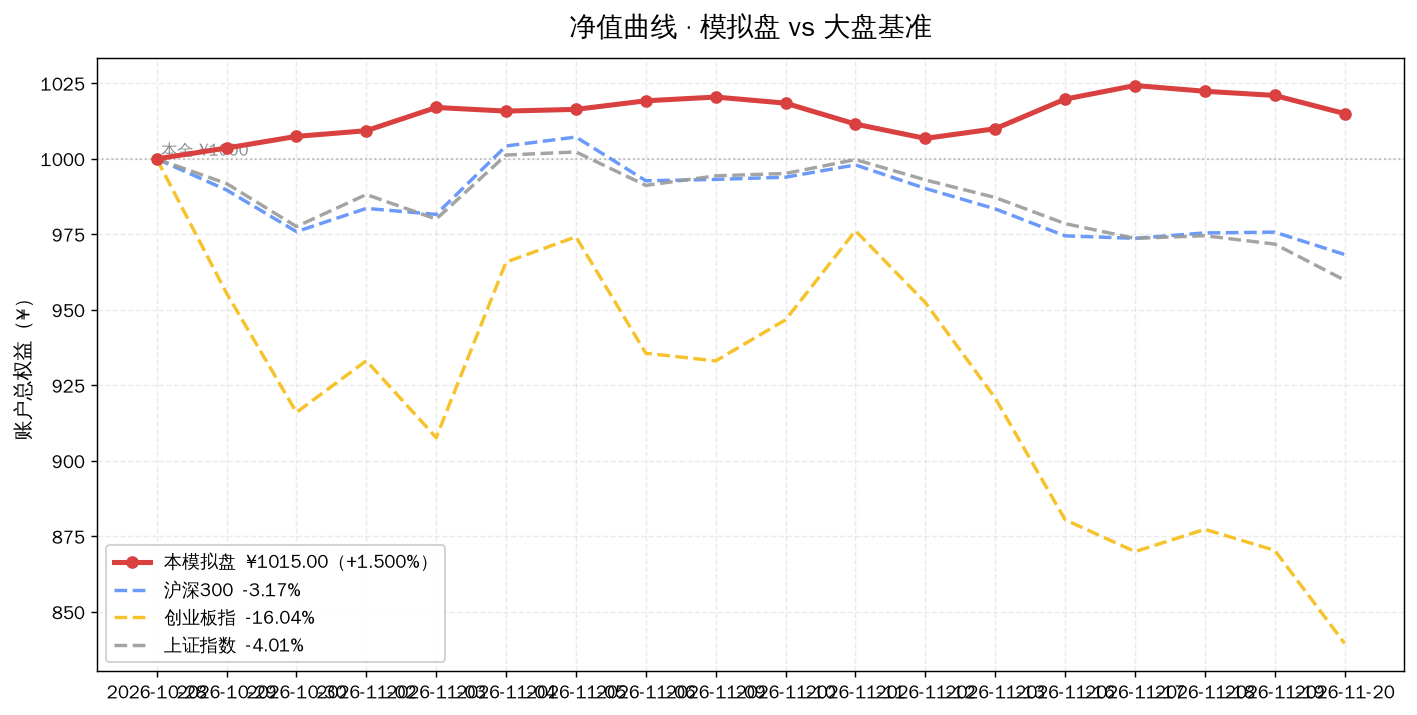
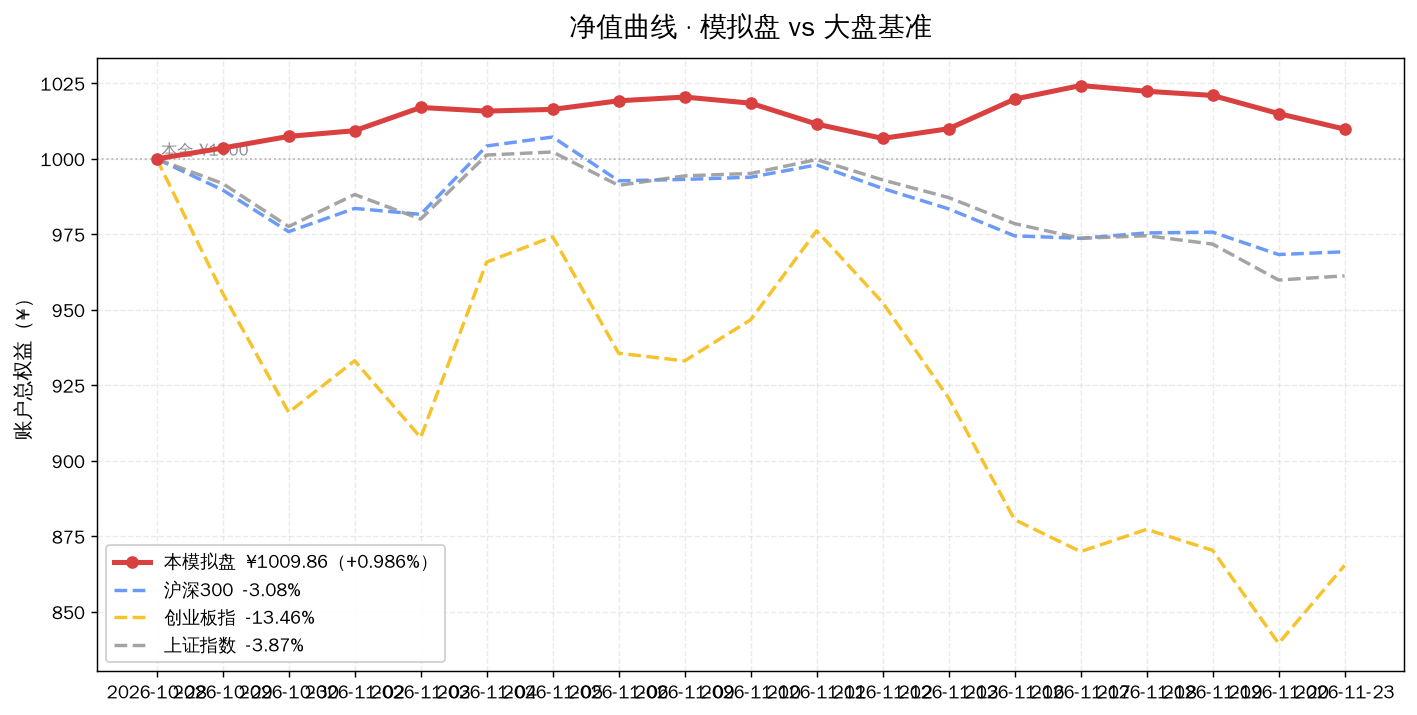
sim: dashboard update 2026-11-23 (equity ¥1009.86, +0.986%)

diff --git a/sim/DASHBOARD.md b/sim/DASHBOARD.md
@@ -1,8 +1,8 @@
 # 📊 模拟盘动态看板
 
-> **自动生成** · 最后更新 **2026-11-20 16:30** · 数据源：腾讯财经公开接口（实时行情）
+> **自动生成** · 最后更新 **2026-11-23 16:30** · 数据源：腾讯财经公开接口（实时行情）
 >
-> 本金 **¥1000.00** · 开仓 **2026-10-28** · 当前总权益 **¥1015.00** · 累计 **+1.500%**
+> 本金 **¥1000.00** · 开仓 **2026-10-28** · 当前总权益 **¥1009.86** · 累计 **+0.986%**
 >
 > ⚠ **纯模拟盘学习实验，不构成投资建议。**
 >
@@ -12,9 +12,9 @@
 
 ## 🎯 30 秒版本
 
-1. 从 2026-10-28 开仓到今天，账户从 ¥1000 变成 **¥1015.00**，赚了 **¥15.00（+1.500%）**。
-2. 今天单日 **-0.59%**，下跌 **¥6.00**。
-3. 同期大盘：**沪深300 -3.17%** 最强，**创业板指 -16.04%** 最弱 —— 本组合跑赢同期最强基准 +4.67 个百分点。
+1. 从 2026-10-28 开仓到今天，账户从 ¥1000 变成 **¥1009.86**，赚了 **¥9.86（+0.986%）**。
+2. 今天单日 **-0.51%**，下跌 **¥5.14**。
+3. 同期大盘：**沪深300 -3.08%** 最强，**创业板指 -13.46%** 最弱 —— 本组合跑赢同期最强基准 +4.06 个百分点。
 
 ## 📈 盈亏曲线
 
@@ -34,7 +34,7 @@
 
 ![盘中曲线](assets/intraday.png)
 
-**怎么读**：2026-11-20 当天每 30 分钟记录一次的账户总值。灰色虚线是当天开盘起点，曲线在虚线上方就是当天浮盈。A 股中午 11:30–13:00 休市，所以那段是平的。
+**怎么读**：2026-11-23 当天每 30 分钟记录一次的账户总值。灰色虚线是当天开盘起点，曲线在虚线上方就是当天浮盈。A 股中午 11:30–13:00 休市，所以那段是平的。
 
 ### 💵 每日盈亏明细图
 
@@ -50,21 +50,21 @@
 
 | 指标 | 数值 | 人话解读 |
 |---|---|---|
-| 总权益 | **¥1015.00** | 现在全部卖掉能拿回多少钱（持仓市值 + 现金） |
-| 持仓市值 | ¥741.07（73.0%） | 买成 ETF 的部分 |
-| 现金 | ¥273.93（27.0%） | 留着没买的钱，按货基利率计息 |
-| 累计盈亏 | **¥+15.00（+1.500%）** | 相对 ¥1000 本金 |
-| 今日盈亏 | **-0.59%** | 今天一天的变化 |
+| 总权益 | **¥1009.86** | 现在全部卖掉能拿回多少钱（持仓市值 + 现金） |
+| 持仓市值 | ¥735.91（72.9%） | 买成 ETF 的部分 |
+| 现金 | ¥273.95（27.1%） | 留着没买的钱，按货基利率计息 |
+| 累计盈亏 | **¥+9.86（+0.986%）** | 相对 ¥1000 本金 |
+| 今日盈亏 | **-0.51%** | 今天一天的变化 |
 | 历史最高 | ¥1024.29 | 账户到过的最高点 |
-| 当前回撤 | -0.907% | 离最高点还差多少（负数=没回到最高点） |
+| 当前回撤 | -1.409% | 离最高点还差多少（负数=没回到最高点） |
 
 ### 持仓明细
 
 | 标的 | 代码 | 持股 | 成本价 | 现价 | 今日 | 市值 | 浮动盈亏 | 人话解读 |
 |---|---|---|---|---|---|---|---|---|
-| 红利低波100ETF景顺 | 515100 | 450 | ¥1.431 | ¥1.485 | 🔻-0.40% | ¥668.25 | **+24.30（+3.77%）** | 赚钱了 |
-| 黄金ETF华安 | 518880 | 10 | ¥8.226 | ¥7.282 | 🔻-4.34% | ¥72.82 | **-9.44（-11.48%）** | 还亏着 |
-| 现金 | — | — | — | — | — | ¥273.93 | — | 货基计息，年化 0.84% |
+| 红利低波100ETF景顺 | 515100 | 450 | ¥1.431 | ¥1.471 | 🔻-0.94% | ¥661.95 | **+18.00（+2.80%）** | 赚钱了 |
+| 黄金ETF华安 | 518880 | 10 | ¥8.226 | ¥7.396 | 🔺+1.57% | ¥73.96 | **-8.30（-10.09%）** | 还亏着 |
+| 现金 | — | — | — | — | — | ¥273.95 | — | 货基计息，年化 0.84% |
 
 ---
 
@@ -110,33 +110,41 @@
 
 | 资产 | 目标占比 | 实际占比 | 偏离 | 判定 |
 |---|---|---|---|---|
-| 红利低波100ETF景顺 | 65% | 65.8% | +0.8pp | 🟢 正常，不动 |
-| 黄金ETF华安 | 8% | 7.2% | -0.8pp | 🟢 正常，不动 |
-| 现金（货基） | 27% | 27.0% | -0.0pp | 🟢 正常，不动 |
+| 红利低波100ETF景顺 | 65% | 65.5% | +0.5pp | 🟢 正常，不动 |
+| 黄金ETF华安 | 8% | 7.3% | -0.7pp | 🟢 正常，不动 |
+| 现金（货基） | 27% | 27.1% | +0.1pp | 🟢 正常，不动 |
 
 #### ② 补仓条件检查（规则：跌到成本价 -8% 触发补仓，每只最多 2 次）
 
 | 标的 | 成本价 | 现价 | 距成本 | 已补仓 | 判定 |
 |---|---|---|---|---|---|
-| 红利低波100ETF景顺 | ¥1.431 | ¥1.485 | +3.77% | 0/2 | 🟢 未触发（还差 11.8pp 才到 -8%） |
-| 黄金ETF华安 | ¥8.226 | ¥7.282 | -11.48% | 0/2 | 🔴 **触发补仓** |
+| 红利低波100ETF景顺 | ¥1.431 | ¥1.471 | +2.80% | 0/2 | 🟢 未触发（还差 10.8pp 才到 -8%） |
+| 黄金ETF华安 | ¥8.226 | ¥7.396 | -10.09% | 0/2 | 🔴 **触发补仓** |
 
 #### ③ 回撤检查（规则：账户从最高点回撤 -5% 只记录、不割肉）
 
 | 指标 | 数值 |
 |---|---|
 | 历史最高净值 | ¥1024.29（2026-11-17） |
-| 当前净值 | ¥1015.00（2026-11-20） |
-| 回撤幅度 | **-0.907%** |
+| 当前净值 | ¥1009.86（2026-11-23） |
+| 回撤幅度 | **-1.409%** |
 | 触发阈值 | -5% |
 
-> 🟢 **未触发**：距阈值还有 4.09pp 缓冲。即使触发，纪律也是记录而非卖出。
+> 🟢 **未触发**：距阈值还有 3.59pp 缓冲。即使触发，纪律也是记录而非卖出。
 
 #### ④ 今日结论
 
 > ⏸ **账户已冻结，不执行任何交易。** 以上检查仅作记录用途——共扫描 6 项纪律，触发 **1** 项。冻结状态下即使触发也不动手（用户决定不投 A 股）。
 
 ### 四、每日决策记录（当时怎么判断的）
+
+#### 📅 2026-11-23 · 权益 ¥1009.86（累计 +0.986%）
+
+- 总权益 **¥1009.86**（当日 -0.51% / 累计 +0.986%）
+- 红利低波100ETF景顺 1.471 (-0.94%)
+- 黄金ETF华安 7.396 (+1.57%)
+- 现金 ¥273.95
+- 📝 自动收盘估值（看板 cron）
 
 #### 📅 2026-11-20 · 权益 ¥1015.00（累计 +1.500%）
 
@@ -289,9 +297,9 @@
 
 | 指数 | 同期涨跌 | 本组合超额 | 人话解读 |
 |---|---|---|---|
-| 沪深300 | -3.17% | **+4.67pp** | 跑赢 4.67 个百分点 |
-| 创业板指 | -16.04% | **+17.54pp** | 跑赢 17.54 个百分点 |
-| 上证指数 | -4.01% | **+5.51pp** | 跑赢 5.51 个百分点 |
+| 沪深300 | -3.08% | **+4.06pp** | 跑赢 4.06 个百分点 |
+| 创业板指 | -13.46% | **+14.44pp** | 跑赢 14.44 个百分点 |
+| 上证指数 | -3.87% | **+4.86pp** | 跑赢 4.86 个百分点 |
 
 > 注：`pp` = percentage point（百分点），是两个百分比相减的单位。「+2.5pp」意思是「比它高 2.5 个百分点」，不是「高 2.5%」。
 
@@ -317,6 +325,7 @@
 | 2026-11-18 | ¥1022.39 | ¥748.47 | ¥273.92 | +2.239% |
 | 2026-11-19 | ¥1021.00 | ¥747.07 | ¥273.93 | +2.100% |
 | 2026-11-20 | ¥1015.00 | ¥741.07 | ¥273.93 | +1.500% |
+| 2026-11-23 | ¥1009.86 | ¥735.91 | ¥273.95 | +0.986% |
 
 ---
 
@@ -329,4 +338,4 @@
 
 ---
 
-_本页由 `dashboard.py` 自动生成于 2026-11-20 16:30:22，每个交易日收盘后刷新。_
+_本页由 `dashboard.py` 自动生成于 2026-11-23 16:30:42，每个交易日收盘后刷新。_
